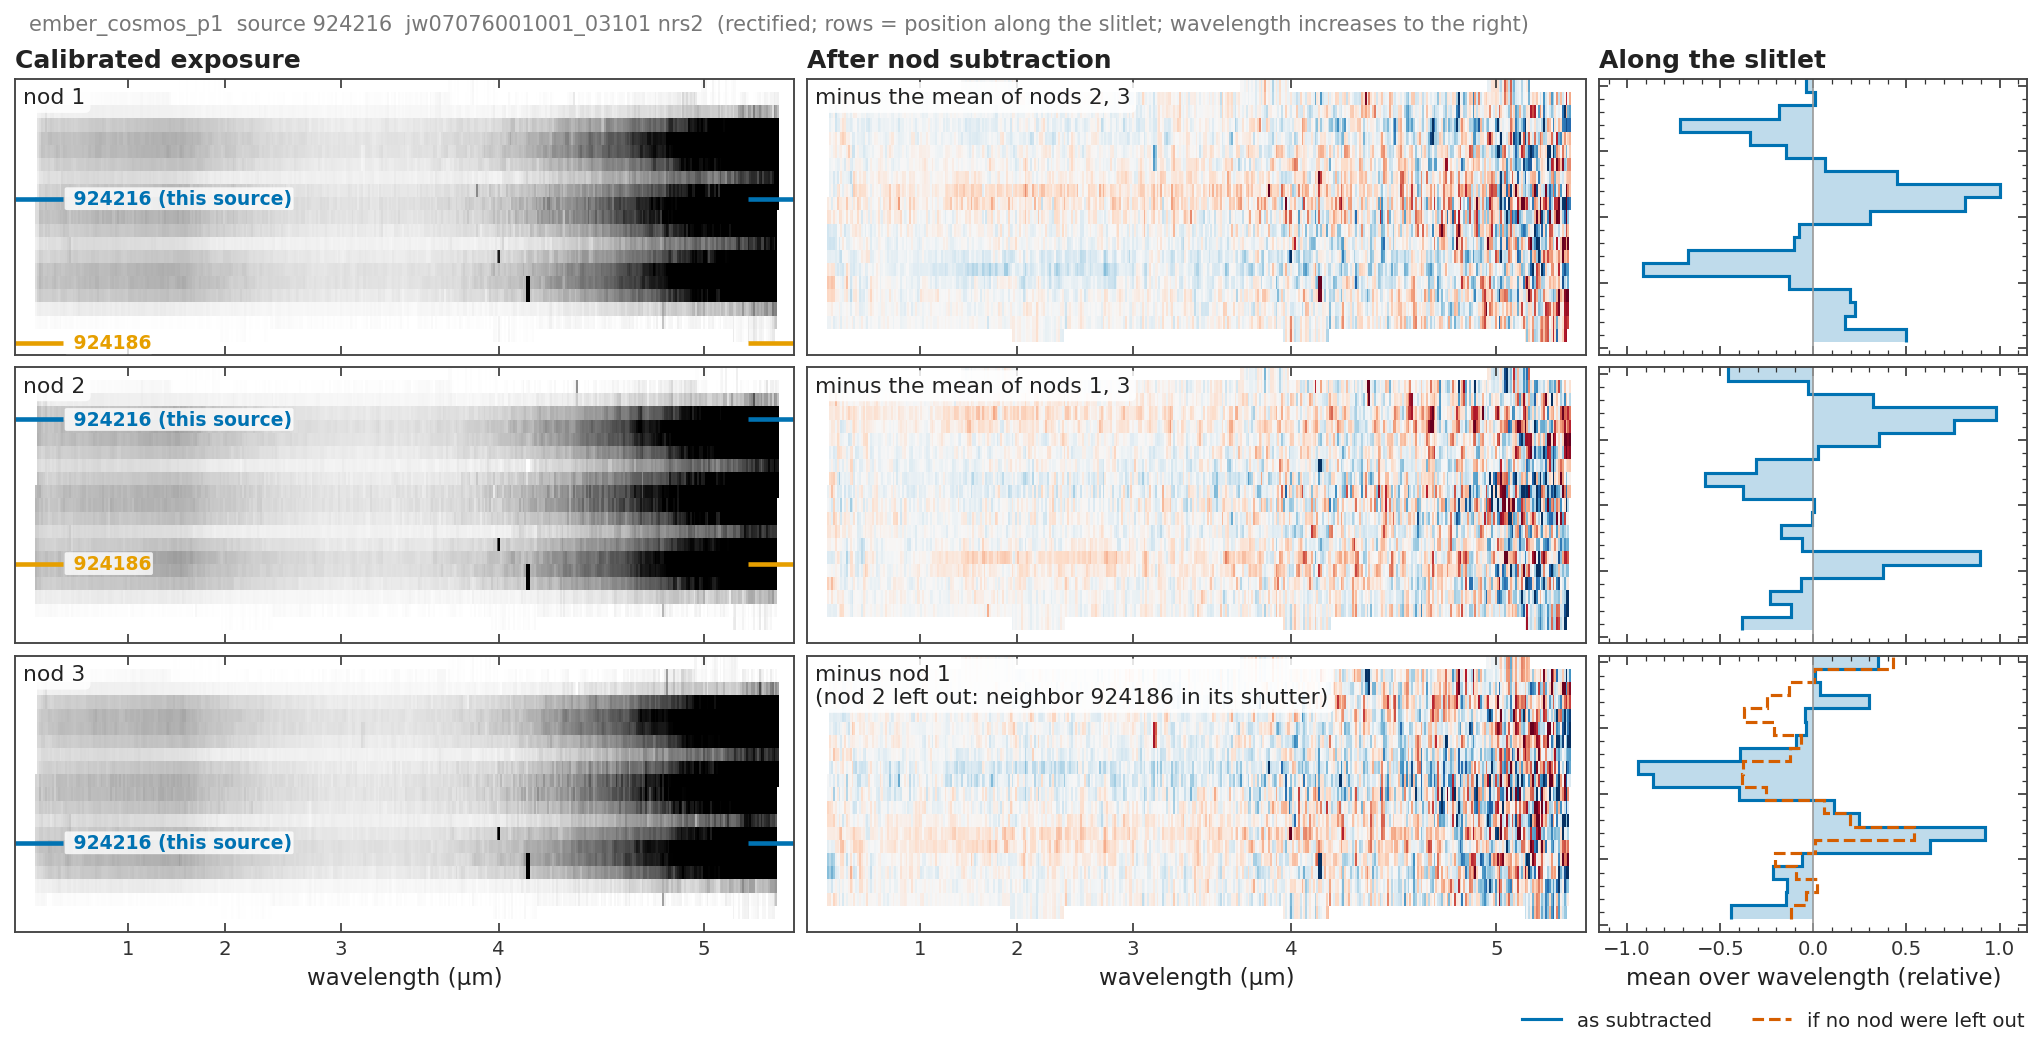
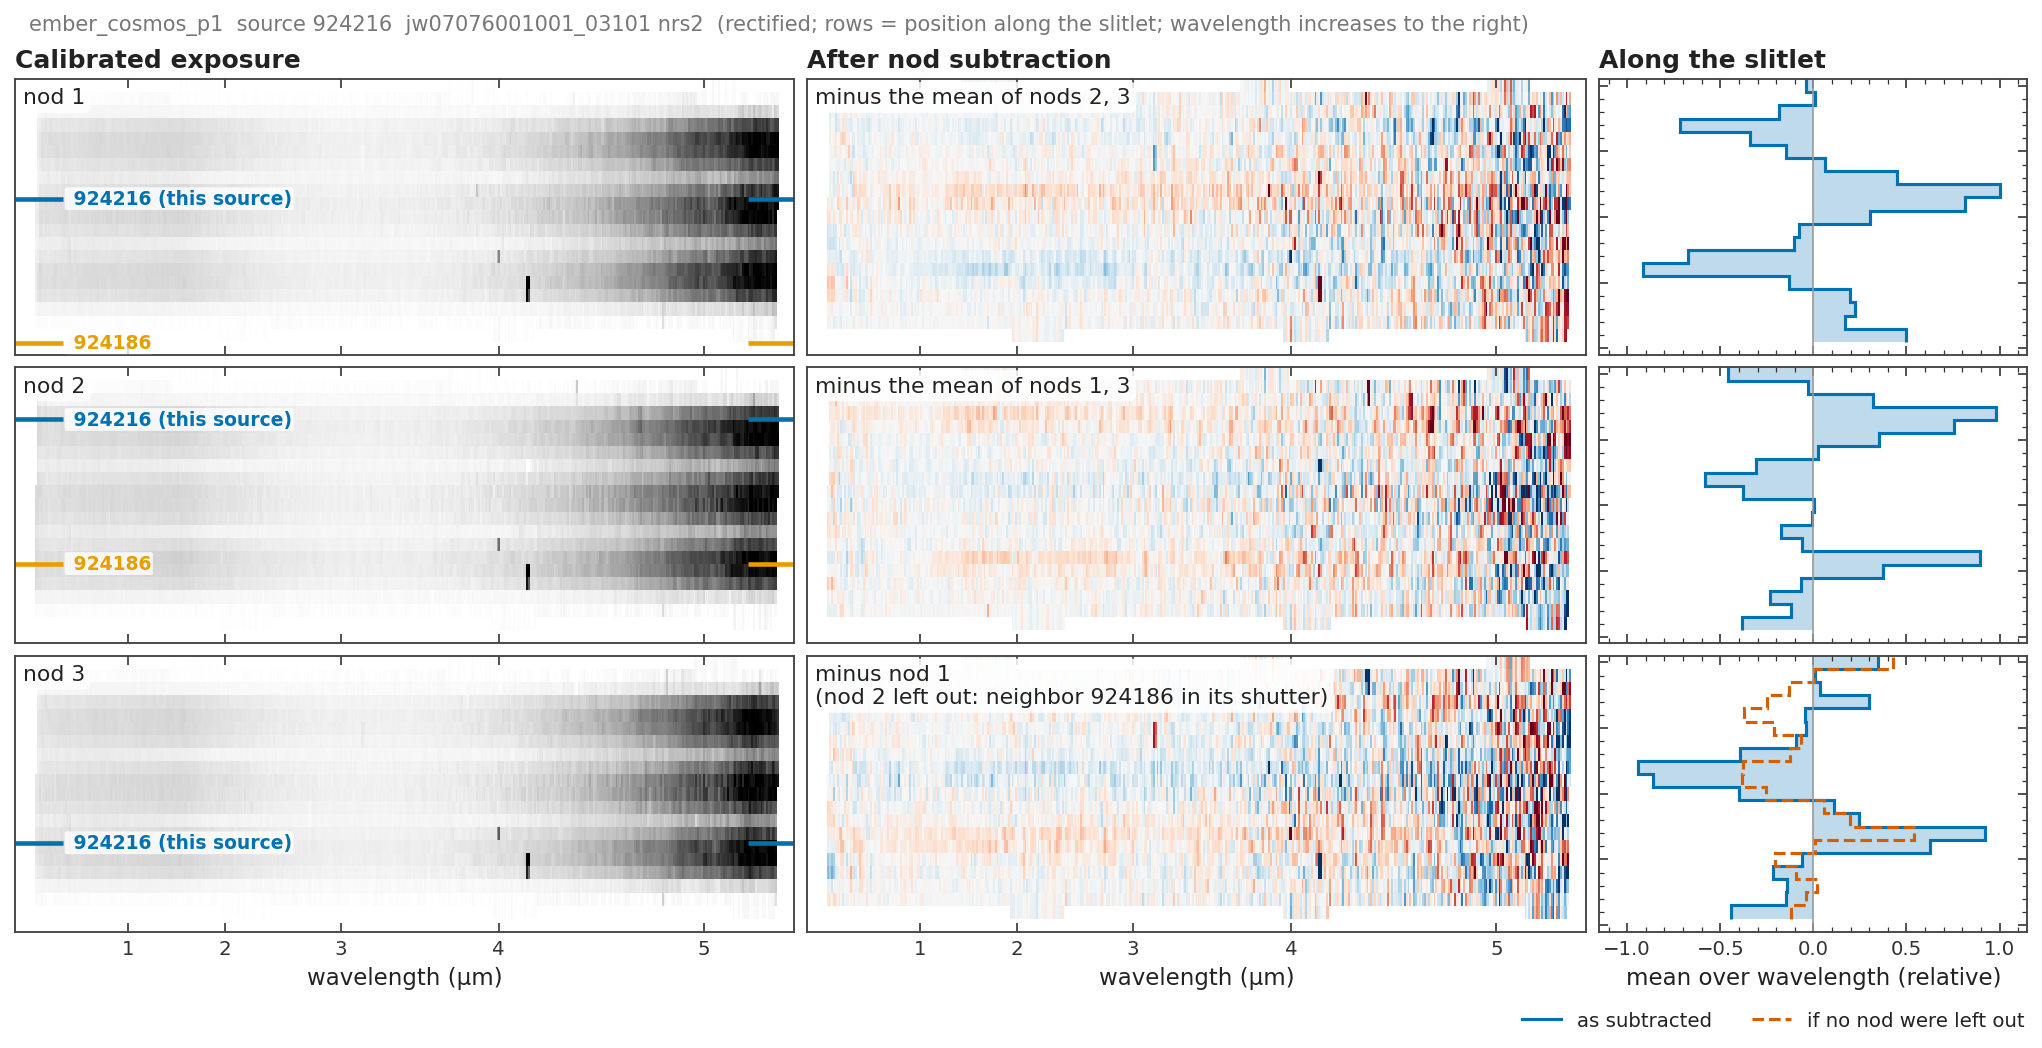
docs: nod figures back to the original stretch of the calibrated frames
Claude-Session: https://claude.ai/code/session_019a5zAo87B6jUK2ZMiF6xjZ

diff --git a/scripts/docs/nirspec/fig_nod_subtraction.py b/scripts/docs/nirspec/fig_nod_subtraction.py
@@ -21,7 +21,7 @@ p.add_argument('--bin', type=int, default=1,
                help='wavelength pixels averaged per displayed column, for faint sources (1: none)')
 p.add_argument('--grating-tag', default='prism_clear',
                help="the source's spec.fits grating tag, for the wavelength axis (e.g. 'g395m_f290lp')")
-p.add_argument('--stretch', type=float, nargs=2, default=(2.0, 92.0), metavar=('LO', 'HI'),
+p.add_argument('--stretch', type=float, nargs=2, default=(1.0, 99.5), metavar=('LO', 'HI'),
                help='percentiles clipped in the calibrated frames (lower HI = harder stretch)')
 p.add_argument('--per-column', action='store_true',
                help="show the calibrated frames divided by each column's median, so the background's rise "
@@ -151,7 +151,7 @@ for r, fr in enumerate(frames):
         from matplotlib.colors import Normalize
         norm = Normalize(vmin=np.percentile(inside, args.stretch[0]), vmax=np.percentile(inside, args.stretch[1]))
     else:
-        norm = C.asinh_norm(shown, *args.stretch, soft=0.02)
+        norm = C.asinh_norm(shown, *args.stretch)
     ax.imshow(shown, cmap='Greys', norm=norm, aspect='auto')
     C.label_panel(ax, f'nod {fr["nod"]}')
     nxd = fr['before'].shape[1]
